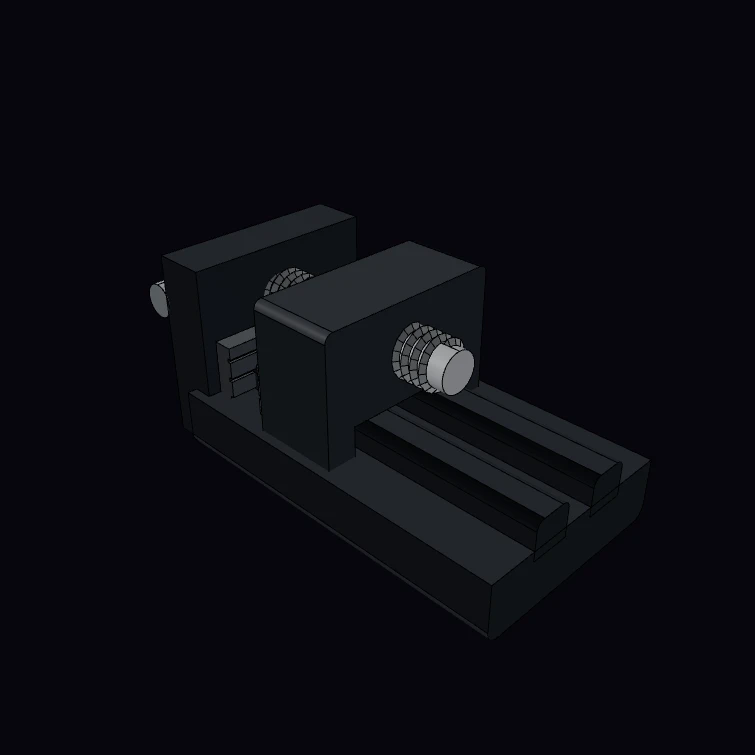
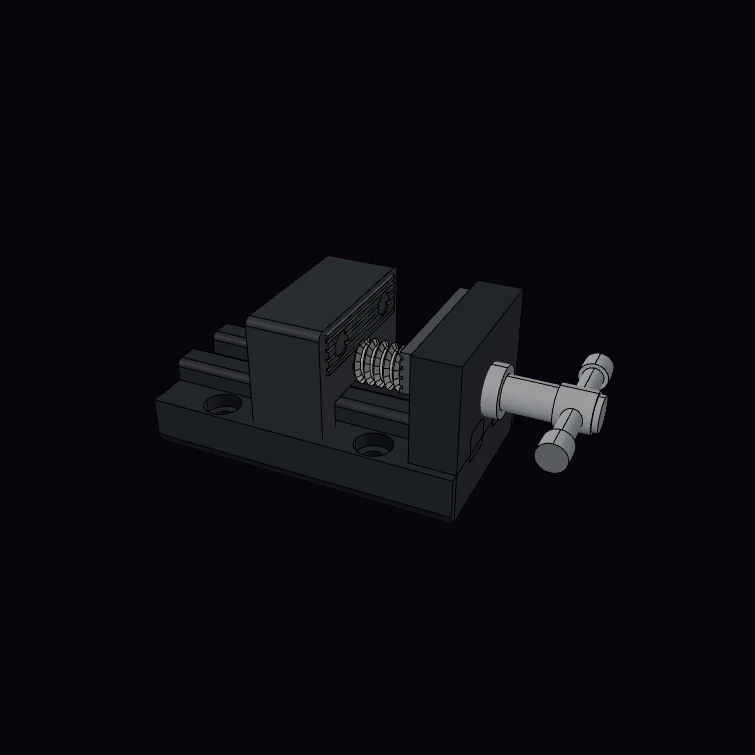
fix(playground): rebuild bench-vise example to fix visual defects
The Machinist Bench Vise example had several visual problems:

- Lead screw protruded ~16 mm past the moving jaw as a floating bare
  stub. Re-derived the screw from the jaw geometry so it threads cleanly
  through the gap and seats inside the nut bore.
- Z-fighting on the base bottom: the jaw plates and moving jaw reached
  Z=0, coplanar with the base bottom face. Lowered the screw to ride just
  above the slideway, lifted the serrated plates into the upper jaw, and
  recessed every mating part 1 mm into its face so no two separate solids
  share a coplanar face.
- Buried grippers: the serrated jaw plates were sunk into the base, so
  almost no gripping surface showed. They now stand exposed across a real
  open mouth.
- Hidden crank: re-posed the assembly (spin about Z) so the iso view
  shows the serrated face, the thread across the mouth, and the T-handle.
- Crank hand clearance: added a smooth standoff neck so the crank stands
  ~28 mm clear of the body, with the full swing behind the base.
- Mounting holes: added four counterbored through-holes in the base
  flange, positioned with open clearance above each for bolt + driver.

Regenerated the committed thumbnail. check:examples, tsc -b, and the
bench-vise eval/mesh + single-connected-solid + thumbnail gates pass.

Changed region(s): [[0.1828, 0.2742, 0.853, 0.7921]]

diff --git a/apps/playground/src/lib/examples/mechanical.ts b/apps/playground/src/lib/examples/mechanical.ts
@@ -3809,64 +3809,78 @@ export default [
 } from 'brepjs/quick';
 import { color } from 'brepjs/playground';
 
-// Machinist bench vise — product assembly with a real threaded lead screw, jaw
-// partway open. Body base sits on Z=0; the screw axis runs along X at mid-height.
-// Every component is a distinct solid so the parts color separately.
+// Machinist bench vise — product assembly, jaws partway open. Datums: base
+// bottom at Z=0; the lead screw runs along X just above the slideway, so the
+// serrated jaw plates sit clear above it as a real gripping mouth.
 const P = {
-  baseLen: 110, // body base length along X (mm)
-  baseWidth: 64, // body width along Y (mm)
-  baseHeight: 18, // base slab height (mm)
-  baseFillet: 4, // rounding on the base bottom edges (mm)
-  railWidth: 12, // each way-rail width along Y (mm)
-  railGap: 22, // centre-to-centre spacing of the two rails (mm)
-  railHeight: 8, // rail height above the base top (mm)
-  railFillet: 2.5, // rail top rounding (mm)
-  fixedJawX: 6, // X of the fixed-jaw gripping face (mm)
-  fixedJawThick: 16, // fixed-jaw wall thickness along X (mm)
-  fixedJawWidth: 58, // fixed-jaw width along Y (mm)
-  jawTopZ: 56, // top of the jaws above Z=0 (mm)
-  screwR: 6, // lead-screw shank radius (mm)
-  screwBoreR: 7, // clearance bore radius through fixed jaw/nut (mm)
-  screwPitch: 3, // lead-screw thread pitch (mm)
-  threadLen: 70, // working length of the visible thread run (mm)
-  slideLen: 26, // sliding-jaw length along X (mm)
-  slideWidth: 58, // sliding-jaw width along Y (mm)
-  slideTopZ: 56, // sliding-jaw top above Z=0 (mm)
-  nutBoreR: 6.4, // nut bore radius in the sliding jaw (mm)
-  collarR: 9, // screw collar radius (mm)
-  collarThick: 6, // screw collar thickness along X (mm)
-  handleR: 3.5, // T-handle crossbar radius (mm)
-  handleLen: 44, // crossbar length between knobs (mm)
-  handleHubR: 7, // hub where the bar passes through the screw end (mm)
-  handleHubLen: 13, // hub length (mm)
-  knobR: 5, // flat-capped knob radius (mm)
-  knobLen: 8, // knob length (mm)
-  plateThick: 6, // jaw-plate thickness along X (mm)
-  plateWidth: 50, // jaw-plate width along Y (mm)
-  plateHeight: 34, // jaw-plate height along Z (mm)
-  boltR: 2.4, // through bolt-hole radius (mm)
-  cboreR: 4.2, // counterbore radius (mm)
-  cboreDepth: 3, // counterbore depth (mm)
-  openGap: 24, // display gap between fixed and sliding jaw faces (mm)
+  baseLen: 110,
+  baseWidth: 64,
+  baseHeight: 18,
+  baseFillet: 4,
+  mountX0: 30, // mounting-hole positions in the base flange (bolt to a bench).
+  mountX1: 87, // X0 clears the fixed-jaw foot; both sit in front of/behind the
+  // moving jaw, leaving open sky above each counterbore for a bolt + driver.
+  mountY: 24.5,
+  mountHoleR: 3.5, // bolt-shank clearance through the base
+  mountCboreR: 6.5, // recessed seat for the bolt head, spotfaced on the base top
+  mountCboreDepth: 5,
+  railWidth: 12,
+  railGap: 22,
+  railHeight: 8,
+  railFillet: 2.5,
+  fixedThick: 16, // fixed jaw wall thickness along X (back flush with base back)
+  jawWidth: 58,
+  jawTopZ: 56,
+  screwR: 6,
+  boreR: 7, // clearance bore through the fixed jaw
+  pitch: 3.5,
+  slideLen: 26,
+  mouth: 24, // open gap between the two serrated jaw faces
+  plateThick: 6,
+  plateWidth: 50,
+  plateBotZ: 40, // jaw plates live in the upper jaw, above the screw line
+  plateTopZ: 54,
+  boltR: 2.4,
+  cboreR: 4.2,
+  cboreDepth: 3,
+  collarR: 9, // thrust collar (> boreR, so it seats on the fixed-jaw back face)
+  collarThick: 6,
+  handleR: 3.5,
+  handleLen: 44,
+  handleHubR: 7,
+  handleHubLen: 12,
+  handleStandoff: 28, // smooth neck behind the body — hand clearance to grip + turn
+
+  knobR: 5,
+  knobLen: 8,
 };
 
-const screwZ = P.baseHeight + P.railHeight + (P.jawTopZ - (P.baseHeight + P.railHeight)) / 2;
+const railTop = P.baseHeight + P.railHeight; // 26
+const screwZ = railTop + P.screwR + 1; // 33 — screw rides just above the ways
+const fixedFront = P.fixedThick; // 16, fixed-jaw grip face (back at X=0)
+const fixedPlateGrip = fixedFront - 1 + P.plateThick; // 21
+const movPlateGrip = fixedPlateGrip + P.mouth; // 45
+const movFront = movPlateGrip + 1; // 46... moving-jaw front face
+const movBack = movFront + P.slideLen; // moving-jaw back face
+const screwTip = movBack - 2; // tip seats in the nut bore, no floating stub
+const plateH = P.plateTopZ - P.plateBotZ;
 
-// Body (cast iron): filleted base slab + two filleted way rails + fixed rear jaw,
-// bored along X for the screw.
+// Body (cast iron): filleted base + two way rails + fixed rear jaw, bored along X.
 function buildBody() {
-  let base = box(P.baseLen, P.baseWidth, P.baseHeight, { at: [P.baseLen / 2, 0, P.baseHeight / 2] });
+  let base = box(P.baseLen, P.baseWidth, P.baseHeight, {
+    at: [P.baseLen / 2, 0, P.baseHeight / 2],
+  });
   const baseBottom = edgeFinder()
     .inDirection('X')
     .when((f: Edge) => getBounds(f).zMin < 1)
     .findAll(base);
   base = unwrap(fillet(base, baseBottom, P.baseFillet));
 
-  // Rails sink into the base so the booleans weld to one solid.
-  const railTop = P.baseHeight + P.railHeight;
   const sink = 3;
   const makeRail = (cy: number) => {
-    const rail = box(P.baseLen, P.railWidth, P.railHeight + sink, { at: [P.baseLen / 2, cy, P.baseHeight + P.railHeight / 2 - sink / 2] });
+    const rail = box(P.baseLen, P.railWidth, P.railHeight + sink, {
+      at: [P.baseLen / 2, cy, P.baseHeight + P.railHeight / 2 - sink / 2],
+    });
     const topEdges = edgeFinder()
       .inDirection('X')
       .when((f: Edge) => getBounds(f).zMax > railTop - 0.5)
@@ -3874,50 +3888,80 @@ function buildBody() {
     return unwrap(fillet(rail, topEdges, P.railFillet));
   };
 
-  const fixedJaw = box(P.fixedJawThick, P.fixedJawWidth, P.jawTopZ, {
-    at: [P.fixedJawX - P.fixedJawThick / 2, 0, P.jawTopZ / 2],
+  // Fixed jaw: back face flush with the base back (X=0), grip face at X=fixedFront.
+  const fixedJaw = box(P.fixedThick, P.jawWidth, P.jawTopZ, {
+    at: [P.fixedThick / 2, 0, P.jawTopZ / 2],
   });
 
-  // Sequential fuse welds the casting into one watertight solid.
   let body = unwrap(fuse(base, makeRail(-P.railGap / 2)));
   body = unwrap(fuse(body, makeRail(P.railGap / 2)));
   body = unwrap(fuse(body, fixedJaw));
 
-  const bore = rotate(cylinder(P.screwBoreR, P.fixedJawThick + 20), 90, { axis: [0, 1, 0] });
-  return unwrap(cut(body, translate(bore, [P.fixedJawX + 10, 0, screwZ])));
+  const bore = cylinder(P.boreR, P.fixedThick + 24, { at: [-12, 0, screwZ], axis: [1, 0, 0] });
+  body = unwrap(cut(body, bore));
+
+  // Counterbored mounting holes through the base flange so the vise bolts down
+  // to a bench: a recessed head seat on the top, a clearance hole to the bottom.
+  const mounts = [];
+  for (const mx of [P.mountX0, P.mountX1]) {
+    for (const my of [-P.mountY, P.mountY]) {
+      mounts.push(cylinder(P.mountHoleR, P.baseHeight + 6, { at: [mx, my, -3], axis: [0, 0, 1] }));
+      mounts.push(
+        cylinder(P.mountCboreR, P.mountCboreDepth + 1, {
+          at: [mx, my, P.baseHeight - P.mountCboreDepth],
+          axis: [0, 0, 1],
+        })
+      );
+    }
+  }
+  return unwrap(cutAll(body, mounts));
 }
 
-// Sliding front jaw: a block straddling the rails (channel cut underneath), nut-bored.
-function buildSlidingJaw() {
-  let jaw = box(P.slideLen, P.slideWidth, P.slideTopZ, { at: [0, 0, P.slideTopZ / 2] });
-  const railTopZ = P.baseHeight + P.railHeight;
-  const channel = box(P.slideLen + 2, P.railGap + P.railWidth + 6, railTopZ + 1.5, { at: [0, 0, (railTopZ + 1.5) / 2 - 0.5] });
+// Sliding front jaw: a block riding the ways (channel underneath clears the
+// rails), bottom kept above the base bottom so it never coplanar-fights the bed.
+function buildMovingJaw() {
+  const cx = movFront + P.slideLen / 2;
+  const botZ = P.baseHeight - 2; // tuck 2 mm into the bed; never reaches Z=0
+  let jaw = box(P.slideLen, P.jawWidth, P.jawTopZ - botZ, {
+    at: [cx, 0, (botZ + P.jawTopZ) / 2],
+  });
+  const channel = box(P.slideLen + 2, P.railGap + P.railWidth + 6, railTop + 1 - botZ + 1, {
+    at: [cx, 0, (botZ - 1 + railTop + 1) / 2],
+  });
   jaw = unwrap(cut(jaw, channel));
-  const nutBore = rotate(cylinder(P.nutBoreR, P.slideLen + 8), 90, { axis: [0, 1, 0] });
-  jaw = unwrap(cut(jaw, translate(nutBore, [0, 0, screwZ])));
+  const nutBore = cylinder(P.boreR - 0.6, P.slideLen + 8, { at: [cx - P.slideLen / 2 - 4, 0, screwZ], axis: [1, 0, 0] });
+  jaw = unwrap(cut(jaw, nutBore));
   const topEdges = edgeFinder()
     .inDirection('X')
-    .when((f: Edge) => getBounds(f).zMax > P.slideTopZ - 0.5)
+    .when((f: Edge) => getBounds(f).zMax > P.jawTopZ - 0.5)
     .findAll(jaw);
   return unwrap(fillet(jaw, topEdges, 2.5));
 }
 
-// Lead screw (steel): shank + real thread run + collar + T-handle crank with
-// flat-capped knob ends (no spheres). Built about +Z, laid along X by the caller.
+// Lead screw (steel): shank + thread run that seats in the nut + thrust collar +
+// T-handle crank with flat-capped knobs. Built about +Z, laid along X by caller.
 function buildScrew() {
-  const shankLen = P.threadLen + P.collarThick + 18;
+  // local z = screwTip - worldX (caller maps z -> worldX = screwTip - z).
+  // The crank stands handleStandoff mm behind the fixed-jaw back (worldX=0) on a
+  // smooth neck, so a hand can wrap a knob and swing it clear of the body.
+  const handleZ = screwTip + P.handleStandoff;
+  const shankLen = handleZ + 8; // tip .. just past the crank
   let screw = cylinder(P.screwR, shankLen, { at: [0, 0, 0] });
 
-  const ridge = unwrap(thread({ radius: P.screwR, pitch: P.screwPitch, height: P.threadLen, sectionsPerTurn: 16 }));
-  screw = unwrap(fuse(screw, translate(ridge, [0, 0, 4])));
-  screw = unwrap(fuse(screw, cylinder(P.collarR, P.collarThick, { at: [0, 0, P.threadLen + 12] })));
+  const threadLen = screwTip + 2; // thread from worldX=-2 (ahead of the collar) to the tip
+  const ridge = unwrap(thread({ radius: P.screwR, pitch: P.pitch, height: threadLen, sectionsPerTurn: 16 }));
+  screw = unwrap(fuse(screw, ridge));
 
-  // T-handle crossbar through a raised hub, flat-capped knob ends (no spheres);
-  // sequential fuse welds the crank into one solid.
-  const handleZ = shankLen - 8;
+  const collarZ = screwTip - 1; // thrust collar overlaps 1 mm into the fixed-jaw back
+  screw = unwrap(fuse(screw, cylinder(P.collarR, P.collarThick, { at: [0, 0, collarZ] })));
+
   const hub = cylinder(P.handleHubR, P.handleHubLen, { at: [0, 0, handleZ - P.handleHubLen / 2] });
-  const bar = translate(rotate(cylinder(P.handleR, P.handleLen, { at: [0, 0, -P.handleLen / 2] }), 90, { axis: [1, 0, 0] }), [0, 0, handleZ]);
   screw = unwrap(fuse(screw, hub));
+
+  const bar = translate(
+    rotate(cylinder(P.handleR, P.handleLen, { at: [0, 0, -P.handleLen / 2] }), 90, { axis: [1, 0, 0] }),
+    [0, 0, handleZ]
+  );
   screw = unwrap(fuse(screw, bar));
 
   const knobBase = rotate(cylinder(P.knobR, P.knobLen, { at: [0, 0, -P.knobLen / 2] }), 90, { axis: [1, 0, 0] });
@@ -3926,41 +3970,47 @@ function buildScrew() {
   return unwrap(fuse(screw, translate(rotate(knobBase, 180, { axis: [1, 0, 0] }), [0, -off, handleZ])));
 }
 
-// Jaw plate (hardened steel): counterbored bolt holes + serration grooves.
+// Hardened jaw plate: horizontal serrations on the grip face + two counterbored
+// bolt holes. Grip face is at X = plateThick (the +X face).
 function buildPlate() {
-  let plate = box(P.plateThick, P.plateWidth, P.plateHeight, { at: [P.plateThick / 2, 0, P.plateHeight / 2] });
-  // Bolt head countersunk FLUSH into the grip face (X=plateThick), plain shank
-  // through to the back into the jaw; bolts at top/bottom, clear of the grip band.
+  let plate = box(P.plateThick, P.plateWidth, plateH, {
+    at: [P.plateThick / 2, 0, P.plateBotZ + plateH / 2],
+  });
   const tools = [];
-  for (const cz of [P.plateHeight - 7, 7]) {
-    const through = rotate(cylinder(P.boltR, P.plateThick + 4), 90, { axis: [0, 1, 0] });
-    const cbore = rotate(cylinder(P.cboreR, P.cboreDepth + 0.5), 90, { axis: [0, 1, 0] });
-    tools.push(translate(through, [P.plateThick + 2, 0, cz]));
-    tools.push(translate(cbore, [P.plateThick - P.cboreDepth + 0.5, 0, cz]));
+  for (const cy of [-16, 16]) {
+    const cz = P.plateBotZ + plateH / 2;
+    const through = cylinder(P.boltR, P.plateThick + 4, { at: [-2, cy, cz], axis: [1, 0, 0] });
+    const cbore = cylinder(P.cboreR, P.cboreDepth + 0.5, { at: [P.plateThick - P.cboreDepth, cy, cz], axis: [1, 0, 0] });
+    tools.push(through, cbore);
   }
   plate = unwrap(cutAll(plate, tools));
 
   const grooves = [];
-  for (let i = 0; i < 5; i++) {
-    grooves.push(box(1.4, P.plateWidth + 2, 1.0, { at: [P.plateThick - 0.3, 0, 6 + i * 6] }));
+  const n = 4;
+  for (let i = 0; i < n; i++) {
+    const gz = P.plateBotZ + 2 + (i * (plateH - 4)) / (n - 1);
+    grooves.push(box(1.4, P.plateWidth + 2, 1.0, { at: [P.plateThick - 0.3, 0, gz] }));
   }
   return unwrap(cutAll(plate, grooves));
 }
 
-// Assemble at the display pose (jaw partway open).
-const slideOpenX = P.fixedJawX + P.openGap + P.slideLen / 2;
+// Spin the whole assembly about Z so the iso camera catches the serrated jaw
+// face, the lead-screw thread across the open mouth, and the T-handle crank.
+const SPIN = 200;
+const up: [number, number, number] = [0, 0, 1];
+
 const body = buildBody();
-const slidingJaw = translate(buildSlidingJaw(), [slideOpenX, 0, 0]);
-const screw = translate(rotate(buildScrew(), -90, { axis: [0, 1, 0] }), [P.fixedJawX + P.threadLen - 4, 0, screwZ]);
-const plateFixed = translate(buildPlate(), [P.fixedJawX, 0, 0]);
-const plateSliding = translate(rotate(buildPlate(), 180, { axis: [0, 0, 1] }), [slideOpenX - P.slideLen / 2, 0, 0]);
+const movingJaw = buildMovingJaw();
+const screw = translate(rotate(buildScrew(), -90, { axis: [0, 1, 0] }), [screwTip, 0, screwZ]);
+const plateFixed = translate(buildPlate(), [fixedPlateGrip - P.plateThick, 0, 0]);
+const plateMoving = translate(rotate(buildPlate(), 180, { axis: [0, 0, 1] }), [movPlateGrip + P.plateThick, 0, 0]);
 
 export default [
-  color(body, '#4d525a'),
-  color(slidingJaw, '#565b63'),
-  color(screw, '#c3c8ce'),
-  color(plateFixed, '#74797f'),
-  color(plateSliding, '#74797f'),
+  color(rotate(body, SPIN, { axis: up }), '#4d525a'),
+  color(rotate(movingJaw, SPIN, { axis: up }), '#565b63'),
+  color(rotate(screw, SPIN, { axis: up }), '#c3c8ce'),
+  color(rotate(plateFixed, SPIN, { axis: up }), '#74797f'),
+  color(rotate(plateMoving, SPIN, { axis: up }), '#74797f'),
 ];
 `,
   },
